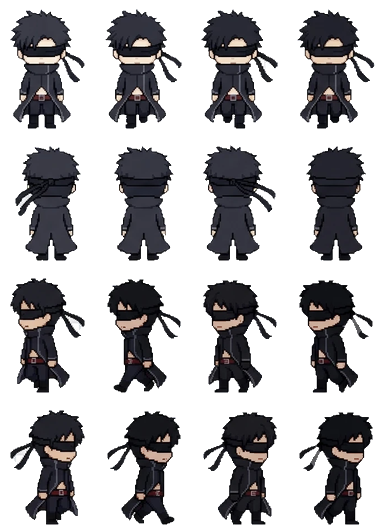
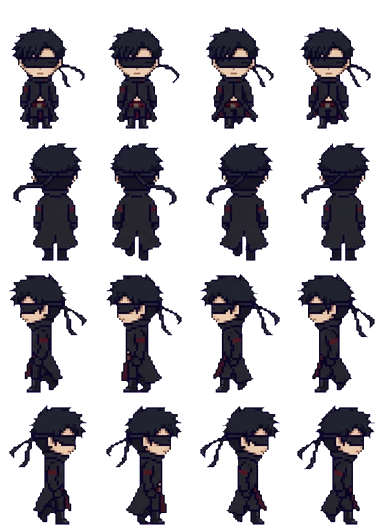
Redraw Jima in the shared art style
Claude-Session: https://claude.ai/code/session_01KaPsBYLrtbRfMYNG2xeBCK

diff --git a/docs/app.js b/docs/app.js
@@ -75,7 +75,7 @@ function spr(cat, k, col, sc) {
   return `<div class="clip" style="width:${it[2] * sc}px;height:${it[3] * sc}px;POS"><img class="px" src="assets/decor/${cat}.png" alt="" style="width:${S.sw * sc}px;height:${S.sh * sc}px;margin-left:${-col * S.cw * sc}px;margin-top:${-i * S.ch * sc}px"></div>`;
 }
 const icon = (k, sz) => `<span class="itm" style="width:${sz}px;height:${sz}px"><img class="px" src="assets/ui/items.png" alt="" style="width:${IT.length * sz}px;height:${sz}px;margin-left:${-ITM[k].i * sz}px"></span>`;
-const face = (id, w) => { const s = w / 96; return `<img class="px" src="assets/ch/${id}.webp?v=40" alt="" style="position:absolute;width:${384 * s}px;height:${528 * s}px;left:${-(96 * s - w) / 2}px;top:0;max-width:none">`; };
+const face = (id, w) => { const s = w / 96; return `<img class="px" src="assets/ch/${id}.webp?v=41" alt="" style="position:absolute;width:${384 * s}px;height:${528 * s}px;left:${-(96 * s - w) / 2}px;top:0;max-width:none">`; };
 
 // ---------- 저장 ----------
 let fb = null, user = null, S = null, saveT = null;
@@ -143,7 +143,7 @@ function sleepHTML(id, r, dy) {
   const pos = r.a && r.a[0] === 'bed' ? 'left:3%;bottom:20%' : r.b && r.b[0] === 'bed' ? 'right:3%;bottom:20%' : 'left:calc(50% - 44px);bottom:6%';
   const s = 36 / 96;
   return `<div style="position:absolute;width:88px;height:56px;${pos};z-index:${dy ? 4 : 5};${dy ? `transform:translate(12px,${dy}px)` : ''}"><div style="position:absolute;inset:0;filter:brightness(.22)">
-    <div style="position:absolute;left:11px;top:1px;width:36px;height:50px;overflow:hidden;transform:rotate(-90deg)"><img class="px" src="assets/ch/${id}.webp?v=40" alt="" style="width:${384 * s}px;height:${528 * s}px;max-width:none;margin-top:${-132 * s}px"></div>
+    <div style="position:absolute;left:11px;top:1px;width:36px;height:50px;overflow:hidden;transform:rotate(-90deg)"><img class="px" src="assets/ch/${id}.webp?v=41" alt="" style="width:${384 * s}px;height:${528 * s}px;max-width:none;margin-top:${-132 * s}px"></div>
     <div style="position:absolute;left:19px;top:19px;width:67px;height:29px;border:2px solid var(--ink);border-radius:8px 6px 4px 4px;background:#8ccff5;background-image:repeating-linear-gradient(90deg,transparent 0 10px,rgba(255,255,255,.5) 10px 13px)"></div></div>
     ${dy ? '' : '<span class="emo" style="left:8px;top:-22px;color:#5b6bd6">Z z z</span>'}</div>`;
 }
@@ -153,8 +153,8 @@ function roomHTML(id, o, scale) {
     <div class="floor" style="background-color:${PAL[r.fc][1]};background-image:${tileUrl('floor', r.fl)}"></div>
     ${slot('deco', r.dc, 'left:6%;top:6%')}${slot('furn', r.a, 'left:3%;bottom:20%')}${slot('furn', r.b, 'right:3%;bottom:20%')}${slot('prop', r.pr, 'left:28%;bottom:4%;z-index:2')}
     ${id && o.sleeping && g ? sleepHTML(g, r, -16) : ''}${id && o.sleeping ? sleepHTML(id, r) : ''}${id && o.job ? `<div style="position:absolute;left:50%;top:38%;transform:translateX(-50%);z-index:5;background:#fff;border:3px solid var(--ink);border-radius:10px;padding:6px 10px;font-size:11px;text-align:center;line-height:1.5"><img src="assets/ui/ic_job.png" alt="" style="width:18px;vertical-align:-4px"> ${WORK[id] ? WORK[id][1] : esc(JOB_NAME[id]) + ' 알바 중'}${g ? `<br><small>${esc(nameOf(g))}도 같이</small>` : ''}<br><b id="jobleft">${timeLeft(o.job.until)}</b></div>` : ''}
-    ${id ? `<div class="shadow" id="shd" ${o.sleeping || o.job ? 'style="display:none"' : ''}></div><div class="man" id="man" ${o.sleeping || o.job ? 'style="display:none"' : ''}><img class="px" src="assets/ch/${id}.webp?v=40" alt="${esc(nameOf(id))}"></div><span class="emo" id="emo" hidden></span><span class="mumble" id="mum" hidden></span>` : ''}
-    ${g ? `<div class="shadow" id="gshd" ${hideG}></div><div class="man" id="gman" ${hideG}><img class="px" src="assets/ch/${g}.webp?v=40" alt="${esc(nameOf(g))}"></div><span class="emo" id="gemo" hidden></span><span class="mumble gmum" id="gmum" hidden></span>` : ''}
+    ${id ? `<div class="shadow" id="shd" ${o.sleeping || o.job ? 'style="display:none"' : ''}></div><div class="man" id="man" ${o.sleeping || o.job ? 'style="display:none"' : ''}><img class="px" src="assets/ch/${id}.webp?v=41" alt="${esc(nameOf(id))}"></div><span class="emo" id="emo" hidden></span><span class="mumble" id="mum" hidden></span>` : ''}
+    ${g ? `<div class="shadow" id="gshd" ${hideG}></div><div class="man" id="gman" ${hideG}><img class="px" src="assets/ch/${g}.webp?v=41" alt="${esc(nameOf(g))}"></div><span class="emo" id="gemo" hidden></span><span class="mumble gmum" id="gmum" hidden></span>` : ''}
     ${o.sleeping ? `<div class="night"></div><div class="sleepleft">쿨쿨 · 일어나기까지 <b id="sleepleft">${timeLeft(wakeAt(o)).replace(' 남음', '')}</b></div>` : ''}
   </div>`;
 }
@@ -167,7 +167,7 @@ function meterHTML(o) {
 const ic = (act, img, label, pressed) => `<button class="ic" data-act="${act}" ${pressed ? 'aria-pressed="true"' : ''}><img src="assets/ui/ic_${img}.png?v=2" alt="">${label}</button>`;
 
 let dropStyle = null; const cheat = {};
-const APP_V = 112, COUPONS = { NINOGUYA: 3000 };
+const APP_V = 113, COUPONS = { NINOGUYA: 3000 };
 // 쿠폰 입력 정리: 한글 자판 상태로 친 글자(ㅜㅑㅜㅐ혀ㅛㅁ)도 영어 자판 글자로 바꾸고, 대소문자·띄어쓰기·마침표는 무시해요
 const KEY = { ㄱ: 'r', ㄲ: 'R', ㄴ: 's', ㄷ: 'e', ㄸ: 'E', ㄹ: 'f', ㅁ: 'a', ㅂ: 'q', ㅃ: 'Q', ㅅ: 't', ㅆ: 'T', ㅇ: 'd', ㅈ: 'w', ㅉ: 'W', ㅊ: 'c', ㅋ: 'z', ㅌ: 'x', ㅍ: 'v', ㅎ: 'g',
   ㅏ: 'k', ㅐ: 'o', ㅑ: 'i', ㅒ: 'O', ㅓ: 'j', ㅔ: 'p', ㅕ: 'u', ㅖ: 'P', ㅗ: 'h', ㅘ: 'hk', ㅙ: 'ho', ㅚ: 'hl', ㅛ: 'y', ㅜ: 'n', ㅝ: 'nj', ㅞ: 'np', ㅟ: 'nl', ㅠ: 'b', ㅡ: 'm', ㅢ: 'ml', ㅣ: 'l',
@@ -407,7 +407,7 @@ function startTrip(k) {
   if (tg) lines[1] = `${nameOf(tg)}: ${withHim(sub(pick(GLX(tg).trip), o, c.n), tg)}`;
   const n = (FR[id] || [4, 4, 4, 4])[3], el = document.createElement('div'); el.className = 'tripview';
   el.innerHTML = `<div class="tsay"> </div><div class="tstage" style="background-image:url(assets/travel/${k}.png?v=2)"><div class="tplace">${esc(c.n)}</div>
-    <div class="twalker"><img class="px" src="assets/ch/${id}.webp?v=40" alt=""></div>${tg ? `<div class="twalker tgirl"><img class="px" src="assets/ch/${tg}.webp?v=40" alt=""></div>` : ''}<span class="emo tjoy">♪</span></div>
+    <div class="twalker"><img class="px" src="assets/ch/${id}.webp?v=41" alt=""></div>${tg ? `<div class="twalker tgirl"><img class="px" src="assets/ch/${tg}.webp?v=41" alt=""></div>` : ''}<span class="emo tjoy">♪</span></div>
     <div class="tbar"><i></i></div><button class="btn white tskip" data-tskip="1">바로 돌아오기</button>`;
   document.body.appendChild(el);
   const gimg = el.querySelector('.tgirl img'), gn = tg ? (FR[tg] || [4, 4, 4, 4])[3] : 1;
@@ -636,7 +636,7 @@ setInterval(() => { if (S && user) { tickTime(); save(); } }, 60000);
     if (nv > APP_V && !location.search.includes('u=' + nv)) { location.replace(location.pathname + '?u=' + nv); return; }
   } catch { }
   app.innerHTML = '<div class="start"><div class="egg"><div class="scr"></div></div><div class="note">불러오는 중....</div></div>';
-  const [c, t, f, it, mu, ct, tv, gl, sts] = await Promise.all(['data/chars.json', 'data/talk.json', 'data/frames.json', 'data/items.json', 'data/mumble.json', 'data/countries.json', 'data/travel.json', 'data/girls.json', 'data/sets.json'].map(u => fetch(u + '?v=112').then(r => r.ok ? r.json() : {})));
+  const [c, t, f, it, mu, ct, tv, gl, sts] = await Promise.all(['data/chars.json', 'data/talk.json', 'data/frames.json', 'data/items.json', 'data/mumble.json', 'data/countries.json', 'data/travel.json', 'data/girls.json', 'data/sets.json'].map(u => fetch(u + '?v=113').then(r => r.ok ? r.json() : {})));
   CH = c; CHM = Object.fromEntries(c.map(x => [x.id, x])); TALK = t; FR = f; IT = it; ITM = Object.fromEntries(it.map(x => [x.k, x])); MUM = mu; CTRY = ct; TRV = tv; GL = Array.isArray(gl) ? gl : []; SETS = Array.isArray(sts) ? sts : []; GLM = Object.fromEntries(GL.map(x => [x.id, x]));
   try { await initFirebase(); } catch (e) { console.warn('Firebase 연결 실패, 기기 저장으로', e); fb = null; }
   if (fb) {

diff --git a/docs/index.html b/docs/index.html
@@ -18,6 +18,6 @@
 <main id="app" aria-live="polite"></main>
 <div id="toast" role="status" hidden></div>
 <script src="firebase-config.js?v=3"></script>
-<script type="module" src="app.js?v=112"></script>
+<script type="module" src="app.js?v=113"></script>
 </body>
 </html>
